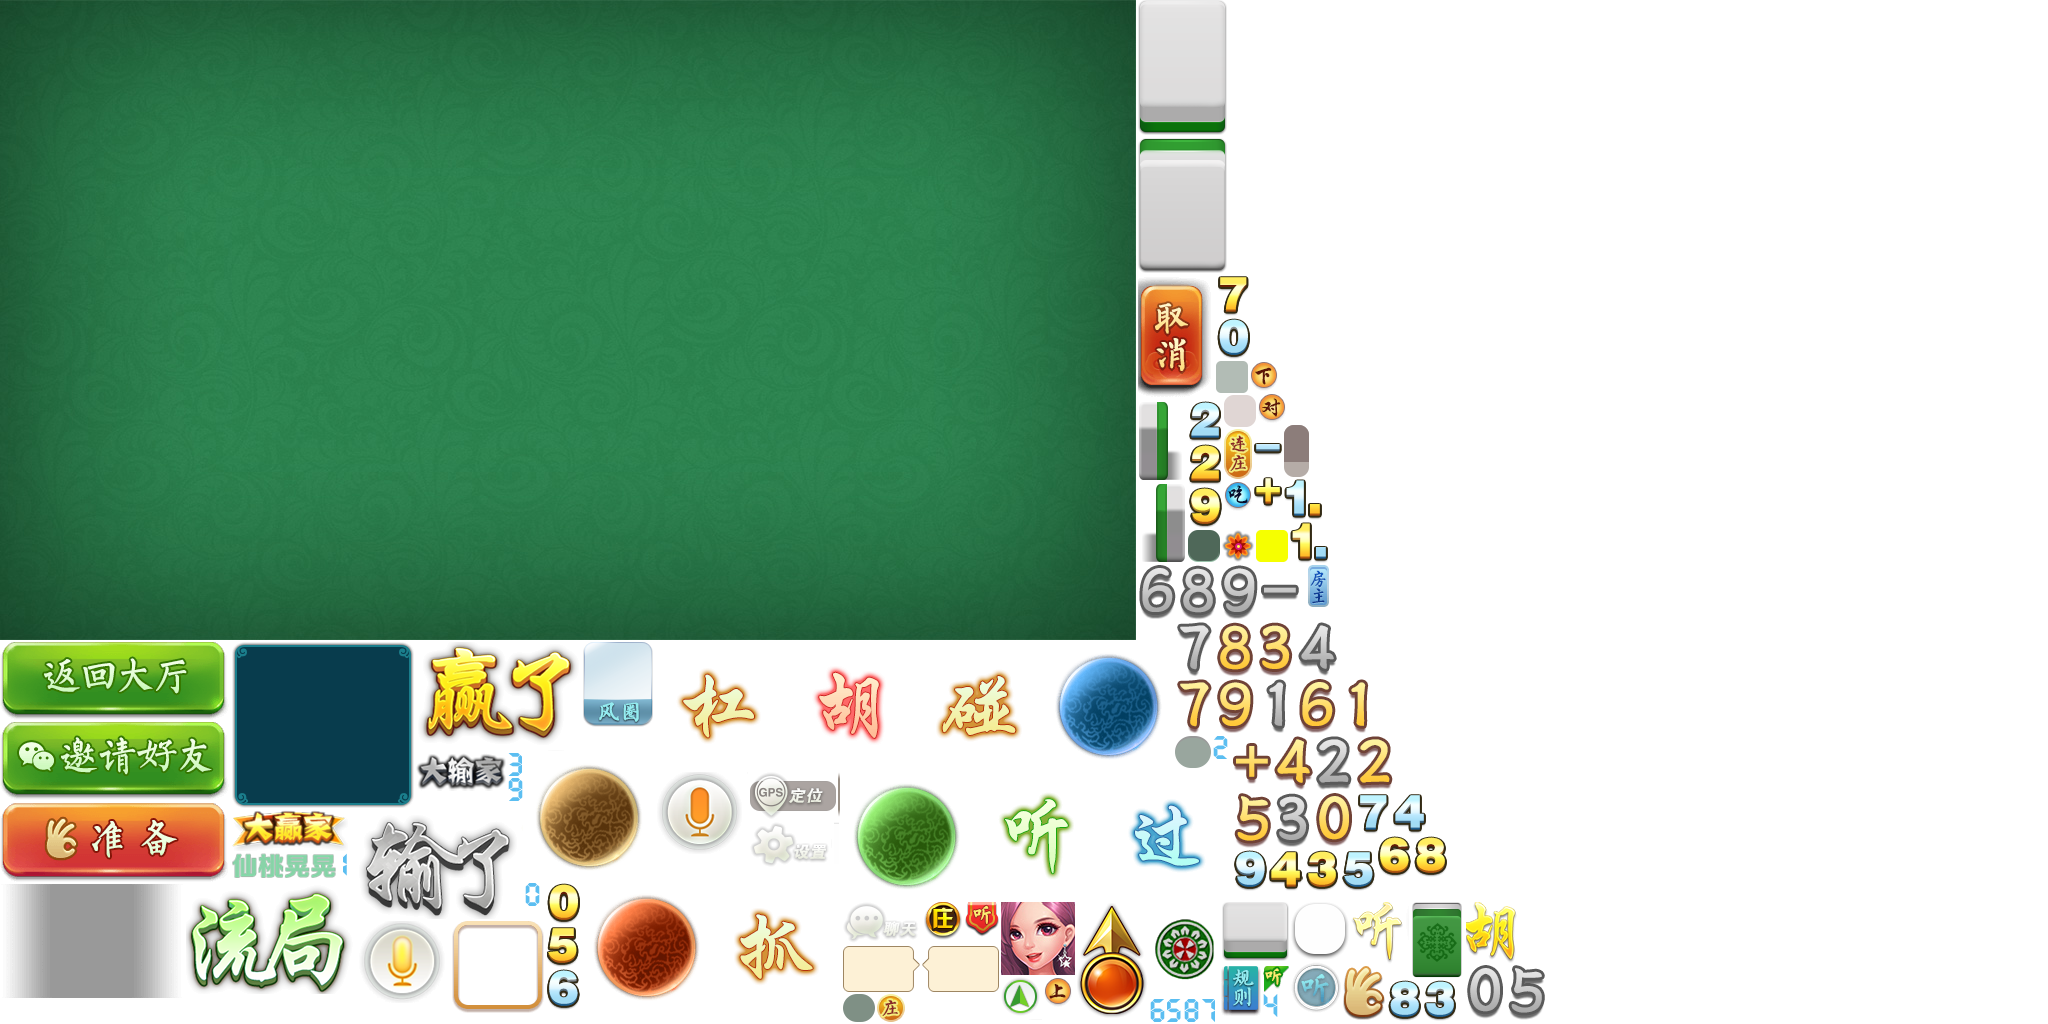
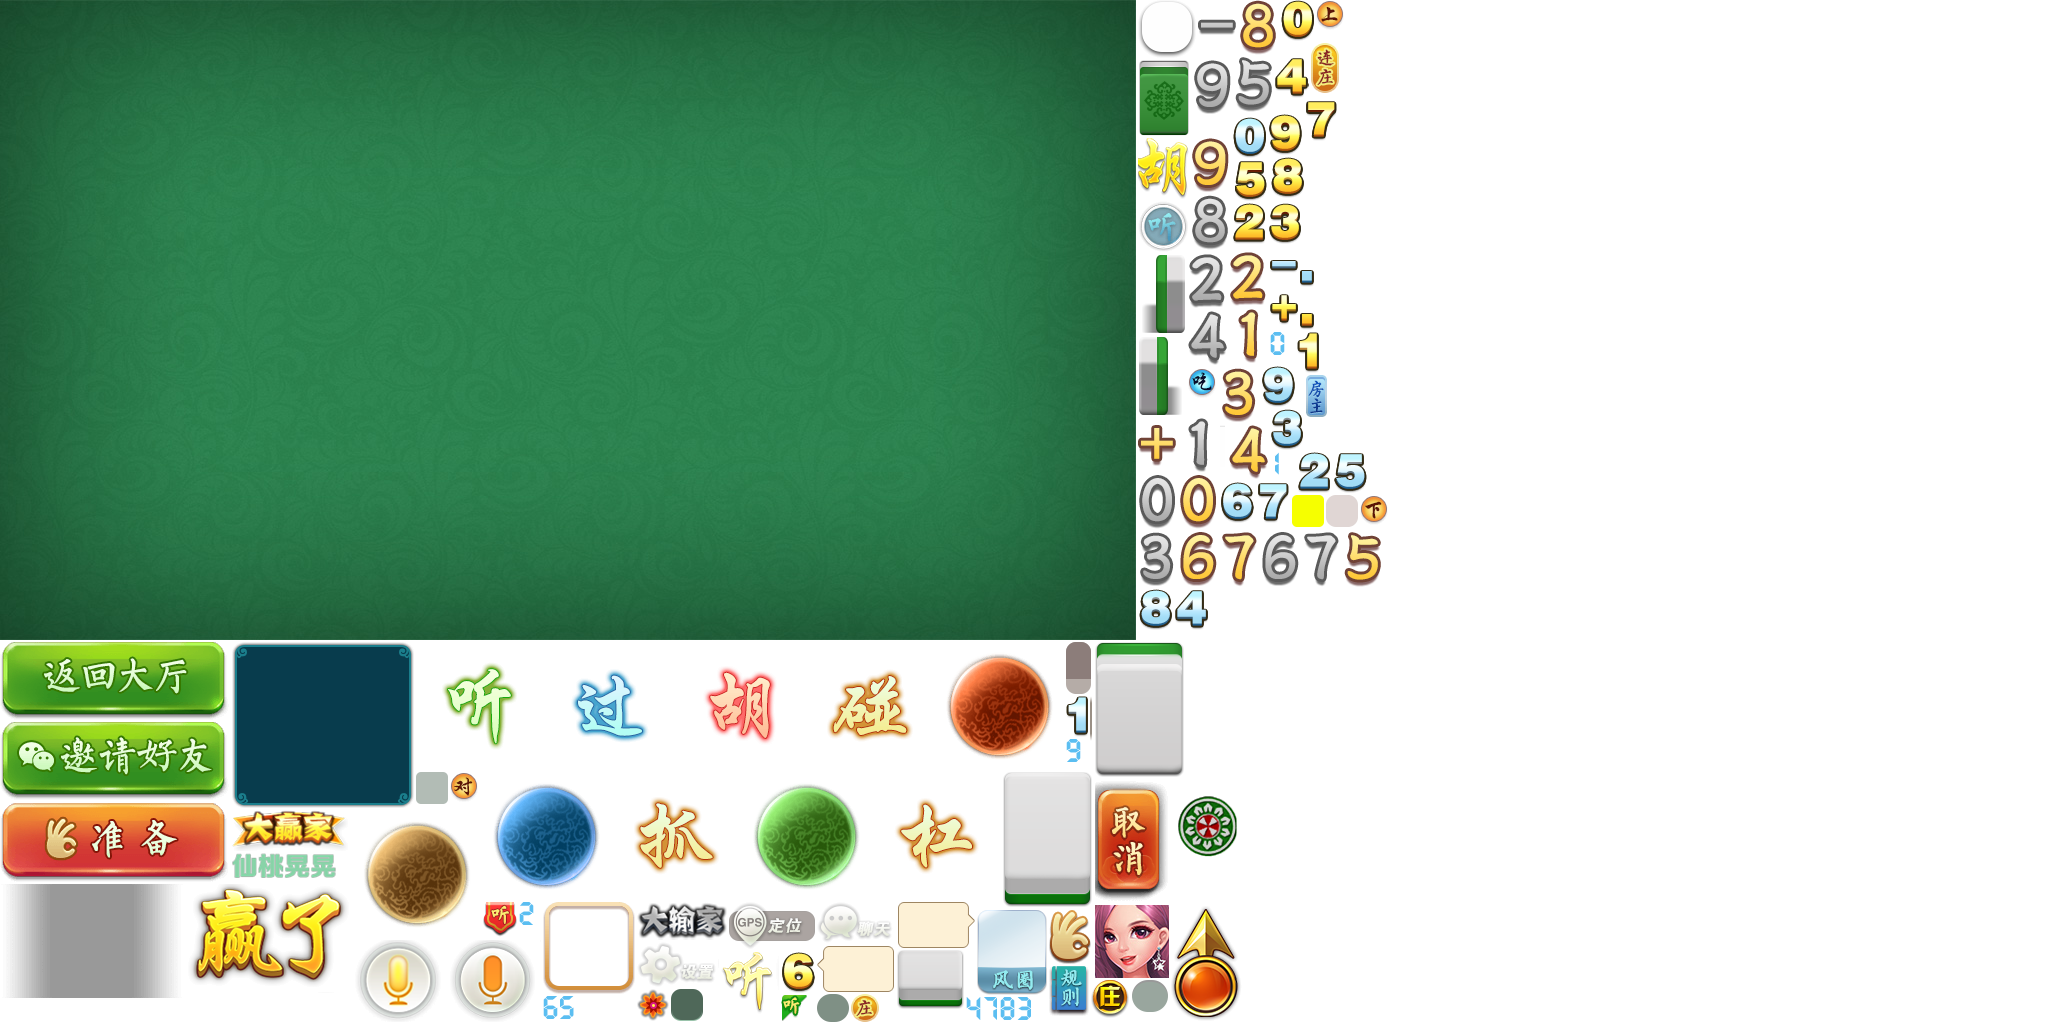
定赖动画

Changed region(s): [[0.0938, 0.0, 0.75, 1.0]]

diff --git a/assets/Script/modules/gameb/RoomView.ts b/assets/Script/modules/gameb/RoomView.ts
@@ -31,6 +31,10 @@ export class RoomView {
     private laiziCom: fgui.GComponent;
     private laiziTile: fgui.GComponent;
     private laigenTile: fgui.GComponent;
+    private laiziTilePos1: fgui.GObject;
+    private laigenTilePos1: fgui.GObject;
+    private laiziTilePos2: fgui.GObject;
+    private laigenTilePos2: fgui.GObject;
     private countDownText: fgui.GObject;
     private listensObjList: fgui.GList;
     private listensObjNum: fgui.GObject;
@@ -117,6 +121,19 @@ export class RoomView {
     public playZhuangAni(pos: fgui.GObject): void {
         this.room.getRoomHost().animationMgr.play(`lobby/prefabs/huanghuang/Effect_ico_zhuang01`, this.zhuangPos.node);
         this.zhuangPos.node.runAction(cc.moveTo(1, pos.node.position));
+    }
+
+    public async playLaiAni(): Promise<void> {
+        TileImageMounter.mountTileImage(this.laiziTile, this.room.laiziID);
+        this.laiziTile.getChild("laiziMask").visible = true;
+        TileImageMounter.mountTileImage(this.laigenTile, this.room.laigenID);
+        this.laiziTile.node.position = this.laiziTilePos2.node.position;
+        this.laigenTile.node.position = this.laigenTilePos2.node.position;
+        this.laiziCom.visible = true;
+
+        this.laigenTile.node.runAction(cc.moveTo(1, this.laigenTilePos1.node.position));
+        await this.room.coWaitSeconds(0.5);
+        this.laiziTile.node.runAction(cc.moveTo(1, this.laiziTilePos1.node.position));
     }
 
     // 播放动画
@@ -426,6 +443,12 @@ export class RoomView {
         this.laiziCom = this.unityViewNode.getChild("laiziCom").asCom;
         this.laigenTile = this.laiziCom.getChild("laigenCom").asCom;
         this.laiziTile = this.laiziCom.getChild("laiziCOm").asCom;
+
+        this.laiziTilePos1 = this.laiziCom.getChild("laiziPos1");
+        this.laiziTilePos2 = this.laiziCom.getChild("laiziPos2");
+        this.laigenTilePos1 = this.laiziCom.getChild("laigenPos1");
+        this.laigenTilePos2 = this.laiziCom.getChild("laigenPos2");
+
         this.laiziCom.visible = false;
 
         //倒计时

diff --git a/assets/Script/modules/gameb/handlers/HandlerMsgDeal.ts b/assets/Script/modules/gameb/handlers/HandlerMsgDeal.ts
@@ -24,12 +24,13 @@ export namespace HandlerMsgDeal {
         const player = <Player>room.getPlayerByUserID(msgDeal.lord_id.toString());
         room.roomView.playZhuangAni(player.playerView.head.bankerFlag);
         await room.coWaitSeconds(1);
-        //播放定赖动画 并等待
-        // await room.roomView.playAnimation("Effect_ico_dinglai", true);
 
+        //播放定赖动画 并等待
         room.laiziID = msgDeal.laizi;
         room.laigenID = msgDeal.fanpai;
-        room.setRoundMask();
+        room.roomView.playLaiAni();
+        await room.coWaitSeconds(1);
+
         const players = room.getPlayers();
         //保存每一个玩家的牌列表
         const playersKeyArr = Object.keys(players);

diff --git a/assets/Script/modules/gameb/RoomInterface.ts b/assets/Script/modules/gameb/RoomInterface.ts
@@ -64,6 +64,7 @@ export interface RoomViewInterface {
     clearWaitingPlayer(): void;
     playAnimation(effectName: string, isWait?: boolean): Promise<void>;
     playZhuangAni(pos: fgui.GObject): void;
+    playLaiAni(): void;
 }
 
 /**
